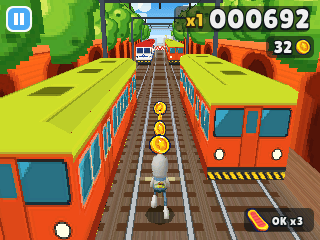
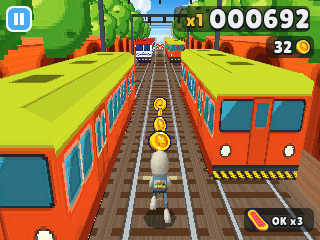
Subway Surfers: Jake clearer from behind, camera closer, media again

diff --git a/games/subway/src/data.c b/games/subway/src/data.c
@@ -1081,49 +1081,49 @@ static const Tri jake_t[1160] = {
   {108,121,109,255}, {108,120,121,255}, {109,122,110,255}, {109,121,122,255}, {110,123,111,255}, {110,122,123,255}, {111,124,112,1}, {111,123,124,1},
   {112,125,113,1}, {112,124,125,1}, {113,126,114,1}, {113,125,126,1}, {114,127,115,1}, {114,126,127,1}, {115,128,116,1}, {115,127,128,1},
   {116,129,117,1}, {116,128,129,1}, {117,130,118,255}, {117,129,130,255}, {118,131,119,255}, {118,130,131,255}, {119,120,108,255}, {119,131,120,255},
-  {120,133,121,255}, {120,132,133,255}, {121,134,122,255}, {121,133,134,255}, {122,135,123,255}, {122,134,135,255}, {123,136,124,1}, {123,135,136,1},
-  {124,137,125,1}, {124,136,137,1}, {125,138,126,1}, {125,137,138,1}, {126,139,127,1}, {126,138,139,1}, {127,140,128,1}, {127,139,140,1},
-  {128,141,129,1}, {128,140,141,1}, {129,142,130,255}, {129,141,142,255}, {130,143,131,255}, {130,142,143,255}, {131,132,120,255}, {131,143,132,255},
-  {132,145,133,255}, {132,144,145,255}, {133,146,134,255}, {133,145,146,255}, {134,147,135,255}, {134,146,147,255}, {135,148,136,1}, {135,147,148,255},
-  {136,149,137,1}, {136,148,149,1}, {137,150,138,1}, {137,149,150,1}, {138,151,139,1}, {138,150,151,1}, {139,152,140,1}, {139,151,152,1},
-  {140,153,141,1}, {140,152,153,1}, {141,154,142,255}, {141,153,154,255}, {142,155,143,255}, {142,154,155,255}, {143,144,132,255}, {143,155,144,255},
+  {120,133,121,255}, {120,132,133,255}, {121,134,122,255}, {121,133,134,255}, {122,135,123,255}, {122,134,135,255}, {123,136,124,1}, {123,135,136,2},
+  {124,137,125,1}, {124,136,137,2}, {125,138,126,1}, {125,137,138,2}, {126,139,127,1}, {126,138,139,2}, {127,140,128,1}, {127,139,140,2},
+  {128,141,129,1}, {128,140,141,2}, {129,142,130,255}, {129,141,142,255}, {130,143,131,255}, {130,142,143,255}, {131,132,120,255}, {131,143,132,255},
+  {132,145,133,255}, {132,144,145,255}, {133,146,134,255}, {133,145,146,255}, {134,147,135,255}, {134,146,147,255}, {135,148,136,2}, {135,147,148,255},
+  {136,149,137,2}, {136,148,149,2}, {137,150,138,2}, {137,149,150,2}, {138,151,139,2}, {138,150,151,2}, {139,152,140,2}, {139,151,152,2},
+  {140,153,141,2}, {140,152,153,2}, {141,154,142,255}, {141,153,154,255}, {142,155,143,255}, {142,154,155,255}, {143,144,132,255}, {143,155,144,255},
   {0,1,156,255}, {1,2,156,255}, {2,3,156,255}, {3,4,156,255}, {4,5,156,1}, {5,6,156,1}, {6,7,156,1}, {7,8,156,1},
   {8,9,156,255}, {9,10,156,255}, {10,11,156,255}, {11,0,156,255}, {144,157,145,255}, {145,157,146,255}, {146,157,147,255}, {147,157,148,255},
-  {148,157,149,1}, {149,157,150,1}, {150,157,151,1}, {151,157,152,1}, {152,157,153,255}, {153,157,154,255}, {154,157,155,255}, {155,157,144,255},
+  {148,157,149,2}, {149,157,150,2}, {150,157,151,2}, {151,157,152,2}, {152,157,153,255}, {153,157,154,255}, {154,157,155,255}, {155,157,144,255},
   {0,11,10,0}, {1,12,11,0}, {2,13,12,0}, {3,14,13,0}, {4,15,14,0}, {5,16,15,0}, {6,17,16,0}, {7,18,17,0},
   {8,19,18,0}, {9,10,19,0}, {10,11,21,0}, {11,12,22,0}, {12,13,23,0}, {13,14,24,0}, {14,15,25,0}, {15,16,26,0},
   {16,17,27,0}, {17,18,28,0}, {18,19,29,0}, {19,10,20,0}, {0,11,1,255}, {0,10,11,255}, {1,12,2,255}, {1,11,12,255},
-  {2,13,3,2}, {2,12,13,255}, {3,14,4,2}, {3,13,14,2}, {4,15,5,2}, {4,14,15,2}, {5,16,6,2}, {5,15,16,2},
-  {6,17,7,2}, {6,16,17,2}, {7,18,8,255}, {7,17,18,255}, {8,19,9,255}, {8,18,19,255}, {9,10,0,255}, {9,19,10,255},
-  {10,21,11,255}, {10,20,21,255}, {11,22,12,255}, {11,21,22,255}, {12,23,13,2}, {12,22,23,255}, {13,24,14,2}, {13,23,24,2},
-  {14,25,15,2}, {14,24,25,2}, {15,26,16,2}, {15,25,26,2}, {16,27,17,2}, {16,26,27,2}, {17,28,18,255}, {17,27,28,2},
+  {2,13,3,3}, {2,12,13,255}, {3,14,4,3}, {3,13,14,3}, {4,15,5,3}, {4,14,15,3}, {5,16,6,3}, {5,15,16,3},
+  {6,17,7,3}, {6,16,17,3}, {7,18,8,255}, {7,17,18,255}, {8,19,9,255}, {8,18,19,255}, {9,10,0,255}, {9,19,10,255},
+  {10,21,11,255}, {10,20,21,255}, {11,22,12,255}, {11,21,22,255}, {12,23,13,3}, {12,22,23,255}, {13,24,14,3}, {13,23,24,3},
+  {14,25,15,3}, {14,24,25,3}, {15,26,16,3}, {15,25,26,3}, {16,27,17,3}, {16,26,27,3}, {17,28,18,255}, {17,27,28,3},
   {18,29,19,255}, {18,28,29,255}, {19,20,10,255}, {19,29,20,255}, {20,31,21,255}, {20,30,31,255}, {21,32,22,255}, {21,31,32,255},
-  {22,33,23,2}, {22,32,33,255}, {23,34,24,2}, {23,33,34,2}, {24,35,25,2}, {24,34,35,2}, {25,36,26,2}, {25,35,36,2},
-  {26,37,27,2}, {26,36,37,2}, {27,38,28,255}, {27,37,38,2}, {28,39,29,255}, {28,38,39,255}, {29,30,20,255}, {29,39,30,255},
-  {30,41,31,255}, {30,40,41,255}, {31,42,32,255}, {31,41,42,255}, {32,43,33,2}, {32,42,43,255}, {33,44,34,2}, {33,43,44,2},
-  {34,45,35,2}, {34,44,45,2}, {35,46,36,2}, {35,45,46,2}, {36,47,37,2}, {36,46,47,2}, {37,48,38,255}, {37,47,48,2},
+  {22,33,23,3}, {22,32,33,255}, {23,34,24,3}, {23,33,34,3}, {24,35,25,3}, {24,34,35,3}, {25,36,26,3}, {25,35,36,3},
+  {26,37,27,3}, {26,36,37,3}, {27,38,28,255}, {27,37,38,3}, {28,39,29,255}, {28,38,39,255}, {29,30,20,255}, {29,39,30,255},
+  {30,41,31,255}, {30,40,41,255}, {31,42,32,255}, {31,41,42,255}, {32,43,33,3}, {32,42,43,255}, {33,44,34,3}, {33,43,44,3},
+  {34,45,35,3}, {34,44,45,3}, {35,46,36,3}, {35,45,46,3}, {36,47,37,3}, {36,46,47,3}, {37,48,38,255}, {37,47,48,3},
   {38,49,39,255}, {38,48,49,255}, {39,40,30,255}, {39,49,40,255}, {40,51,41,255}, {40,50,51,255}, {41,52,42,255}, {41,51,52,255},
-  {42,53,43,2}, {42,52,53,255}, {43,54,44,2}, {43,53,54,2}, {44,55,45,2}, {44,54,55,2}, {45,56,46,2}, {45,55,56,2},
-  {46,57,47,2}, {46,56,57,2}, {47,58,48,255}, {47,57,58,2}, {48,59,49,255}, {48,58,59,255}, {49,50,40,255}, {49,59,50,255},
-  {50,61,51,255}, {50,60,61,255}, {51,62,52,255}, {51,61,62,255}, {52,63,53,2}, {52,62,63,255}, {53,64,54,2}, {53,63,64,2},
-  {54,65,55,2}, {54,64,65,2}, {55,66,56,2}, {55,65,66,2}, {56,67,57,2}, {56,66,67,2}, {57,68,58,255}, {57,67,68,2},
+  {42,53,43,3}, {42,52,53,255}, {43,54,44,3}, {43,53,54,3}, {44,55,45,3}, {44,54,55,3}, {45,56,46,3}, {45,55,56,3},
+  {46,57,47,3}, {46,56,57,3}, {47,58,48,255}, {47,57,58,3}, {48,59,49,255}, {48,58,59,255}, {49,50,40,255}, {49,59,50,255},
+  {50,61,51,255}, {50,60,61,255}, {51,62,52,255}, {51,61,62,255}, {52,63,53,3}, {52,62,63,255}, {53,64,54,3}, {53,63,64,3},
+  {54,65,55,3}, {54,64,65,3}, {55,66,56,3}, {55,65,66,3}, {56,67,57,3}, {56,66,67,3}, {57,68,58,255}, {57,67,68,3},
   {58,69,59,255}, {58,68,69,255}, {59,60,50,255}, {59,69,60,255}, {60,71,61,255}, {60,70,71,255}, {61,72,62,255}, {61,71,72,255},
-  {62,73,63,255}, {62,72,73,255}, {63,74,64,2}, {63,73,74,2}, {64,75,65,2}, {64,74,75,2}, {65,76,66,2}, {65,75,76,2},
-  {66,77,67,2}, {66,76,77,2}, {67,78,68,255}, {67,77,78,2}, {68,79,69,255}, {68,78,79,255}, {69,70,60,255}, {69,79,70,255},
-  {0,1,80,255}, {1,2,80,255}, {2,3,80,255}, {3,4,80,2}, {4,5,80,2}, {5,6,80,2}, {6,7,80,2}, {7,8,80,255},
-  {8,9,80,255}, {9,0,80,255}, {70,81,71,255}, {71,81,72,255}, {72,81,73,255}, {73,81,74,2}, {74,81,75,2}, {75,81,76,2},
-  {76,81,77,2}, {77,81,78,255}, {78,81,79,255}, {79,81,70,255}, {0,1,6,255}, {0,6,5,255}, {1,2,7,255}, {1,7,6,255},
+  {62,73,63,255}, {62,72,73,255}, {63,74,64,3}, {63,73,74,3}, {64,75,65,3}, {64,74,75,3}, {65,76,66,3}, {65,75,76,3},
+  {66,77,67,3}, {66,76,77,3}, {67,78,68,255}, {67,77,78,3}, {68,79,69,255}, {68,78,79,255}, {69,70,60,255}, {69,79,70,255},
+  {0,1,80,255}, {1,2,80,255}, {2,3,80,255}, {3,4,80,3}, {4,5,80,3}, {5,6,80,3}, {6,7,80,3}, {7,8,80,255},
+  {8,9,80,255}, {9,0,80,255}, {70,81,71,255}, {71,81,72,255}, {72,81,73,255}, {73,81,74,3}, {74,81,75,3}, {75,81,76,3},
+  {76,81,77,3}, {77,81,78,255}, {78,81,79,255}, {79,81,70,255}, {0,1,6,255}, {0,6,5,255}, {1,2,7,255}, {1,7,6,255},
   {2,3,8,255}, {2,8,7,255}, {3,4,9,255}, {3,9,8,255}, {5,6,11,255}, {5,11,10,255}, {6,7,12,255}, {6,12,11,255},
   {7,8,13,255}, {7,13,12,255}, {8,9,14,255}, {8,14,13,255}, {0,11,1,255}, {0,10,11,255}, {1,12,2,255}, {1,11,12,255},
-  {2,13,3,255}, {2,12,13,255}, {3,14,4,3}, {3,13,14,3}, {4,15,5,3}, {4,14,15,3}, {5,16,6,3}, {5,15,16,3},
-  {6,17,7,3}, {6,16,17,3}, {7,18,8,255}, {7,17,18,255}, {8,19,9,255}, {8,18,19,255}, {9,10,0,255}, {9,19,10,255},
-  {10,21,11,255}, {10,20,21,255}, {11,22,12,255}, {11,21,22,255}, {12,23,13,255}, {12,22,23,255}, {13,24,14,3}, {13,23,24,3},
-  {14,25,15,3}, {14,24,25,3}, {15,26,16,3}, {15,25,26,3}, {16,27,17,3}, {16,26,27,3}, {17,28,18,255}, {17,27,28,255},
+  {2,13,3,255}, {2,12,13,255}, {3,14,4,4}, {3,13,14,4}, {4,15,5,4}, {4,14,15,4}, {5,16,6,4}, {5,15,16,4},
+  {6,17,7,4}, {6,16,17,4}, {7,18,8,255}, {7,17,18,255}, {8,19,9,255}, {8,18,19,255}, {9,10,0,255}, {9,19,10,255},
+  {10,21,11,255}, {10,20,21,255}, {11,22,12,255}, {11,21,22,255}, {12,23,13,255}, {12,22,23,255}, {13,24,14,4}, {13,23,24,4},
+  {14,25,15,4}, {14,24,25,4}, {15,26,16,4}, {15,25,26,4}, {16,27,17,4}, {16,26,27,4}, {17,28,18,255}, {17,27,28,255},
   {18,29,19,255}, {18,28,29,255}, {19,20,10,255}, {19,29,20,255}, {20,31,21,255}, {20,30,31,255}, {21,32,22,255}, {21,31,32,255},
-  {22,33,23,255}, {22,32,33,255}, {23,34,24,3}, {23,33,34,3}, {24,35,25,3}, {24,34,35,3}, {25,36,26,3}, {25,35,36,3},
-  {26,37,27,3}, {26,36,37,3}, {27,38,28,255}, {27,37,38,255}, {28,39,29,255}, {28,38,39,255}, {29,30,20,255}, {29,39,30,255},
-  {0,1,40,255}, {1,2,40,255}, {2,3,40,255}, {3,4,40,3}, {4,5,40,3}, {5,6,40,3}, {6,7,40,3}, {7,8,40,255},
-  {8,9,40,255}, {9,0,40,255}, {30,41,31,255}, {31,41,32,255}, {32,41,33,255}, {33,41,34,3}, {34,41,35,3}, {35,41,36,3},
+  {22,33,23,255}, {22,32,33,255}, {23,34,24,4}, {23,33,34,4}, {24,35,25,4}, {24,34,35,4}, {25,36,26,4}, {25,35,36,4},
+  {26,37,27,4}, {26,36,37,4}, {27,38,28,255}, {27,37,38,255}, {28,39,29,255}, {28,38,39,255}, {29,30,20,255}, {29,39,30,255},
+  {0,1,40,255}, {1,2,40,255}, {2,3,40,255}, {3,4,40,4}, {4,5,40,4}, {5,6,40,4}, {6,7,40,4}, {7,8,40,255},
+  {8,9,40,255}, {9,0,40,255}, {30,41,31,255}, {31,41,32,255}, {32,41,33,255}, {33,41,34,4}, {34,41,35,4}, {35,41,36,4},
   {36,41,37,255}, {37,41,38,255}, {38,41,39,255}, {39,41,30,255}, {0,9,1,255}, {0,8,9,255}, {1,10,2,255}, {1,9,10,255},
   {2,11,3,255}, {2,10,11,255}, {3,12,4,255}, {3,11,12,255}, {4,13,5,255}, {4,12,13,255}, {5,14,6,255}, {5,13,14,255},
   {6,15,7,255}, {6,14,15,255}, {7,8,0,255}, {7,15,8,255}, {8,17,9,255}, {8,16,17,255}, {9,18,10,255}, {9,17,18,255},
@@ -1134,17 +1134,17 @@ static const Tri jake_t[1160] = {
   {26,35,27,255}, {26,34,35,255}, {27,36,28,255}, {27,35,36,255}, {28,37,29,255}, {28,36,37,255}, {29,38,30,255}, {29,37,38,255},
   {30,39,31,255}, {30,38,39,255}, {31,32,24,255}, {31,39,32,255}, {32,41,33,255}, {32,40,41,255}, {33,42,34,255}, {33,41,42,255},
   {34,43,35,255}, {34,42,43,255}, {35,44,36,255}, {35,43,44,255}, {36,45,37,255}, {36,44,45,255}, {37,46,38,255}, {37,45,46,255},
-  {38,47,39,255}, {38,46,47,255}, {39,40,32,255}, {39,47,40,255}, {40,49,41,4}, {40,48,49,255}, {41,50,42,5}, {41,49,50,6},
-  {42,51,43,7}, {42,50,51,8}, {43,52,44,7}, {43,51,52,7}, {44,53,45,7}, {44,52,53,7}, {45,54,46,9}, {45,53,54,7},
-  {46,55,47,10}, {46,54,55,11}, {47,48,40,255}, {47,55,48,255}, {48,57,49,12}, {48,56,57,255}, {49,58,50,13}, {49,57,58,14},
-  {50,59,51,7}, {50,58,59,15}, {51,60,52,7}, {51,59,60,7}, {52,61,53,7}, {52,60,61,7}, {53,62,54,16}, {53,61,62,7},
-  {54,63,55,17}, {54,62,63,18}, {55,56,48,255}, {55,63,56,19}, {56,65,57,20}, {56,64,65,255}, {57,66,58,21}, {57,65,66,22},
-  {58,67,59,7}, {58,66,67,23}, {59,68,60,7}, {59,67,68,7}, {60,69,61,7}, {60,68,69,7}, {61,70,62,24}, {61,69,70,7},
-  {62,71,63,25}, {62,70,71,26}, {63,64,56,255}, {63,71,64,27}, {64,73,65,28}, {64,72,73,255}, {65,74,66,29}, {65,73,74,30},
-  {66,75,67,31}, {66,74,75,32}, {67,76,68,7}, {67,75,76,7}, {68,77,69,7}, {68,76,77,7}, {69,78,70,33}, {69,77,78,7},
-  {70,79,71,33}, {70,78,79,34}, {71,72,64,255}, {71,79,72,35}, {0,1,80,255}, {1,2,80,255}, {2,3,80,255}, {3,4,80,255},
-  {4,5,80,255}, {5,6,80,255}, {6,7,80,255}, {7,0,80,255}, {72,81,73,255}, {73,81,74,36}, {74,81,75,36}, {75,81,76,7},
-  {76,81,77,7}, {77,81,78,37}, {78,81,79,37}, {79,81,72,255}, {0,9,1,255}, {0,8,9,255}, {1,10,2,255}, {1,9,10,255},
+  {38,47,39,255}, {38,46,47,255}, {39,40,32,255}, {39,47,40,255}, {40,49,41,5}, {40,48,49,255}, {41,50,42,6}, {41,49,50,7},
+  {42,51,43,8}, {42,50,51,9}, {43,52,44,8}, {43,51,52,8}, {44,53,45,8}, {44,52,53,8}, {45,54,46,10}, {45,53,54,8},
+  {46,55,47,11}, {46,54,55,12}, {47,48,40,255}, {47,55,48,255}, {48,57,49,13}, {48,56,57,255}, {49,58,50,14}, {49,57,58,15},
+  {50,59,51,8}, {50,58,59,16}, {51,60,52,8}, {51,59,60,8}, {52,61,53,8}, {52,60,61,8}, {53,62,54,17}, {53,61,62,8},
+  {54,63,55,18}, {54,62,63,19}, {55,56,48,255}, {55,63,56,20}, {56,65,57,21}, {56,64,65,255}, {57,66,58,22}, {57,65,66,23},
+  {58,67,59,8}, {58,66,67,24}, {59,68,60,8}, {59,67,68,8}, {60,69,61,8}, {60,68,69,8}, {61,70,62,25}, {61,69,70,8},
+  {62,71,63,26}, {62,70,71,27}, {63,64,56,255}, {63,71,64,28}, {64,73,65,29}, {64,72,73,255}, {65,74,66,30}, {65,73,74,31},
+  {66,75,67,32}, {66,74,75,33}, {67,76,68,8}, {67,75,76,8}, {68,77,69,8}, {68,76,77,8}, {69,78,70,34}, {69,77,78,8},
+  {70,79,71,34}, {70,78,79,35}, {71,72,64,255}, {71,79,72,36}, {0,1,80,255}, {1,2,80,255}, {2,3,80,255}, {3,4,80,255},
+  {4,5,80,255}, {5,6,80,255}, {6,7,80,255}, {7,0,80,255}, {72,81,73,255}, {73,81,74,37}, {74,81,75,37}, {75,81,76,8},
+  {76,81,77,8}, {77,81,78,38}, {78,81,79,38}, {79,81,72,255}, {0,9,1,255}, {0,8,9,255}, {1,10,2,255}, {1,9,10,255},
   {2,11,3,255}, {2,10,11,255}, {3,12,4,255}, {3,11,12,255}, {4,13,5,255}, {4,12,13,255}, {5,14,6,255}, {5,13,14,255},
   {6,15,7,255}, {6,14,15,255}, {7,8,0,255}, {7,15,8,255}, {8,17,9,255}, {8,16,17,255}, {9,18,10,255}, {9,17,18,255},
   {10,19,11,255}, {10,18,19,255}, {11,20,12,255}, {11,19,20,255}, {12,21,13,255}, {12,20,21,255}, {13,22,14,255}, {13,21,22,255},
@@ -1154,17 +1154,17 @@ static const Tri jake_t[1160] = {
   {26,35,27,255}, {26,34,35,255}, {27,36,28,255}, {27,35,36,255}, {28,37,29,255}, {28,36,37,255}, {29,38,30,255}, {29,37,38,255},
   {30,39,31,255}, {30,38,39,255}, {31,32,24,255}, {31,39,32,255}, {32,41,33,255}, {32,40,41,255}, {33,42,34,255}, {33,41,42,255},
   {34,43,35,255}, {34,42,43,255}, {35,44,36,255}, {35,43,44,255}, {36,45,37,255}, {36,44,45,255}, {37,46,38,255}, {37,45,46,255},
-  {38,47,39,255}, {38,46,47,255}, {39,40,32,255}, {39,47,40,255}, {40,49,41,38}, {40,48,49,255}, {41,50,42,39}, {41,49,50,40},
-  {42,51,43,7}, {42,50,51,40}, {43,52,44,7}, {43,51,52,7}, {44,53,45,7}, {44,52,53,7}, {45,54,46,41}, {45,53,54,7},
-  {46,55,47,42}, {46,54,55,43}, {47,48,40,255}, {47,55,48,255}, {48,57,49,44}, {48,56,57,255}, {49,58,50,45}, {49,57,58,46},
-  {50,59,51,7}, {50,58,59,46}, {51,60,52,7}, {51,59,60,7}, {52,61,53,7}, {52,60,61,7}, {53,62,54,47}, {53,61,62,7},
-  {54,63,55,48}, {54,62,63,49}, {55,56,48,255}, {55,63,56,50}, {56,65,57,51}, {56,64,65,255}, {57,66,58,52}, {57,65,66,53},
-  {58,67,59,7}, {58,66,67,53}, {59,68,60,7}, {59,67,68,7}, {60,69,61,7}, {60,68,69,7}, {61,70,62,54}, {61,69,70,7},
-  {62,71,63,55}, {62,70,71,56}, {63,64,56,255}, {63,71,64,57}, {64,73,65,58}, {64,72,73,255}, {65,74,66,59}, {65,73,74,60},
-  {66,75,67,61}, {66,74,75,62}, {67,76,68,7}, {67,75,76,7}, {68,77,69,7}, {68,76,77,7}, {69,78,70,63}, {69,77,78,7},
-  {70,79,71,64}, {70,78,79,65}, {71,72,64,255}, {71,79,72,66}, {0,1,80,255}, {1,2,80,255}, {2,3,80,255}, {3,4,80,255},
-  {4,5,80,255}, {5,6,80,255}, {6,7,80,255}, {7,0,80,255}, {72,81,73,255}, {73,81,74,67}, {74,81,75,67}, {75,81,76,7},
-  {76,81,77,7}, {77,81,78,68}, {78,81,79,68}, {79,81,72,255}, {0,1,8,255}, {0,8,7,255}, {1,2,9,255}, {1,9,8,255},
+  {38,47,39,255}, {38,46,47,255}, {39,40,32,255}, {39,47,40,255}, {40,49,41,39}, {40,48,49,255}, {41,50,42,40}, {41,49,50,41},
+  {42,51,43,8}, {42,50,51,41}, {43,52,44,8}, {43,51,52,8}, {44,53,45,8}, {44,52,53,8}, {45,54,46,42}, {45,53,54,8},
+  {46,55,47,43}, {46,54,55,44}, {47,48,40,255}, {47,55,48,255}, {48,57,49,45}, {48,56,57,255}, {49,58,50,46}, {49,57,58,47},
+  {50,59,51,8}, {50,58,59,47}, {51,60,52,8}, {51,59,60,8}, {52,61,53,8}, {52,60,61,8}, {53,62,54,48}, {53,61,62,8},
+  {54,63,55,49}, {54,62,63,50}, {55,56,48,255}, {55,63,56,51}, {56,65,57,52}, {56,64,65,255}, {57,66,58,53}, {57,65,66,54},
+  {58,67,59,8}, {58,66,67,54}, {59,68,60,8}, {59,67,68,8}, {60,69,61,8}, {60,68,69,8}, {61,70,62,55}, {61,69,70,8},
+  {62,71,63,56}, {62,70,71,57}, {63,64,56,255}, {63,71,64,58}, {64,73,65,59}, {64,72,73,255}, {65,74,66,60}, {65,73,74,61},
+  {66,75,67,62}, {66,74,75,63}, {67,76,68,8}, {67,75,76,8}, {68,77,69,8}, {68,76,77,8}, {69,78,70,64}, {69,77,78,8},
+  {70,79,71,65}, {70,78,79,66}, {71,72,64,255}, {71,79,72,67}, {0,1,80,255}, {1,2,80,255}, {2,3,80,255}, {3,4,80,255},
+  {4,5,80,255}, {5,6,80,255}, {6,7,80,255}, {7,0,80,255}, {72,81,73,255}, {73,81,74,68}, {74,81,75,68}, {75,81,76,8},
+  {76,81,77,8}, {77,81,78,69}, {78,81,79,69}, {79,81,72,255}, {0,1,8,255}, {0,8,7,255}, {1,2,9,255}, {1,9,8,255},
   {2,3,10,255}, {2,10,9,255}, {3,4,11,255}, {3,11,10,255}, {4,5,12,255}, {4,12,11,255}, {5,6,13,255}, {5,13,12,255},
   {6,0,7,255}, {6,7,13,255}, {7,8,15,255}, {7,15,14,255}, {8,9,16,255}, {8,16,15,255}, {9,10,17,255}, {9,17,16,255},
   {10,11,18,255}, {10,18,17,255}, {11,12,19,255}, {11,19,18,255}, {12,13,20,255}, {12,20,19,255}, {13,7,14,255}, {13,14,20,255},
@@ -1198,13 +1198,13 @@ static const Tri jake_t[1160] = {
   {6,0,63,255}, {56,64,57,255}, {57,64,58,255}, {58,64,59,255}, {59,64,60,255}, {60,64,61,255}, {61,64,62,255}, {62,64,56,255},
 };
 static const MPart jake_p[9] = {{0,158,0,312,1}, {158,30,312,20,-1}, {188,82,332,160,0}, {270,15,492,16,1}, {285,42,508,80,0}, {327,82,588,160,0}, {409,82,748,160,0}, {491,65,908,126,0}, {556,65,1034,126,0},};
-static const uint16_t jake_pal[69] = {
-  10240,57050,29944,8713,63223,63223,63028,61275,63060,63223,63223,59649,
-  14496,23142,27970,25826,10240,10240,40806,40806,34436,23778,12993,12928,
-  38630,38630,19426,19426,61242,59065,59063,61145,59030,63290,56982,56950,
-  52725,50676,63223,63223,59681,63222,63191,60980,10272,12320,40807,25191,
-  23079,25890,40806,38630,38629,19394,25891,30213,12993,19361,59161,61209,
-  59031,63290,59063,61177,61209,59063,59030,52658,52659,
+static const uint16_t jake_pal[70] = {
+  10240,61209,52757,29944,8713,63223,63223,63028,61275,63060,63223,63223,
+  59649,14496,23142,27970,25826,10240,10240,40806,40806,34436,23778,12993,
+  12928,38630,38630,19426,19426,61242,59065,59063,61145,59030,63290,56982,
+  56950,52725,50676,63223,63223,59681,63222,63191,60980,10272,12320,40807,
+  25191,23079,25890,40806,38630,38629,19394,25891,30213,12993,19361,59161,
+  61209,59031,63290,59063,61177,61209,59063,59030,52658,52659,
 };
 static const int16_t jake_j[11][3] = {{0,761,0}, {0,794,0}, {0,1188,0}, {-157,1132,0}, {-415,1132,0}, {157,1132,0}, {415,1132,0}, {-132,741,0}, {-132,450,0}, {125,741,0}, {125,450,0}};
 static const int8_t jake_parent[11] = {-1,0,1,1,3,1,5,0,7,0,9};
@@ -1316,53 +1316,53 @@ static const Tri jake_lo_t[624] = {
   {52,62,53,255}, {52,61,62,255}, {53,54,45,255}, {53,62,54,255}, {54,64,55,255}, {54,63,64,255}, {55,65,56,255}, {55,64,65,255},
   {56,66,57,1}, {56,65,66,255}, {57,67,58,1}, {57,66,67,1}, {58,68,59,1}, {58,67,68,1}, {59,69,60,1}, {59,68,69,1},
   {60,70,61,255}, {60,69,70,1}, {61,71,62,255}, {61,70,71,255}, {62,63,54,255}, {62,71,63,255}, {63,73,64,255}, {63,72,73,255},
-  {64,74,65,255}, {64,73,74,255}, {65,75,66,1}, {65,74,75,255}, {66,76,67,1}, {66,75,76,1}, {67,77,68,1}, {67,76,77,1},
-  {68,78,69,1}, {68,77,78,1}, {69,79,70,255}, {69,78,79,1}, {70,80,71,255}, {70,79,80,255}, {71,72,63,255}, {71,80,72,255},
+  {64,74,65,255}, {64,73,74,255}, {65,75,66,2}, {65,74,75,255}, {66,76,67,2}, {66,75,76,2}, {67,77,68,2}, {67,76,77,2},
+  {68,78,69,2}, {68,77,78,2}, {69,79,70,255}, {69,78,79,2}, {70,80,71,255}, {70,79,80,255}, {71,72,63,255}, {71,80,72,255},
   {0,1,81,255}, {1,2,81,255}, {2,3,81,255}, {3,4,81,1}, {4,5,81,1}, {5,6,81,1}, {6,7,81,255}, {7,8,81,255},
-  {8,0,81,255}, {72,82,73,255}, {73,82,74,255}, {74,82,75,255}, {75,82,76,1}, {76,82,77,1}, {77,82,78,1}, {78,82,79,255},
+  {8,0,81,255}, {72,82,73,255}, {73,82,74,255}, {74,82,75,255}, {75,82,76,2}, {76,82,77,2}, {77,82,78,2}, {78,82,79,255},
   {79,82,80,255}, {80,82,72,255}, {0,8,7,0}, {1,9,8,0}, {2,10,9,0}, {3,11,10,0}, {4,12,11,0}, {5,13,12,0},
   {6,7,13,0}, {7,8,15,0}, {8,9,16,0}, {9,10,17,0}, {10,11,18,0}, {11,12,19,0}, {12,13,20,0}, {13,7,14,0},
-  {0,9,1,255}, {0,8,9,255}, {1,10,2,255}, {1,9,10,255}, {2,11,3,2}, {2,10,11,2}, {3,12,4,2}, {3,11,12,2},
-  {4,13,5,2}, {4,12,13,2}, {5,14,6,2}, {5,13,14,2}, {6,15,7,255}, {6,14,15,255}, {7,8,0,255}, {7,15,8,255},
-  {8,17,9,255}, {8,16,17,255}, {9,18,10,255}, {9,17,18,255}, {10,19,11,2}, {10,18,19,2}, {11,20,12,2}, {11,19,20,2},
-  {12,21,13,2}, {12,20,21,2}, {13,22,14,2}, {13,21,22,2}, {14,23,15,255}, {14,22,23,255}, {15,16,8,255}, {15,23,16,255},
-  {16,25,17,255}, {16,24,25,255}, {17,26,18,255}, {17,25,26,255}, {18,27,19,2}, {18,26,27,2}, {19,28,20,2}, {19,27,28,2},
-  {20,29,21,2}, {20,28,29,2}, {21,30,22,2}, {21,29,30,2}, {22,31,23,255}, {22,30,31,255}, {23,24,16,255}, {23,31,24,255},
-  {24,33,25,255}, {24,32,33,255}, {25,34,26,255}, {25,33,34,255}, {26,35,27,2}, {26,34,35,2}, {27,36,28,2}, {27,35,36,2},
-  {28,37,29,2}, {28,36,37,2}, {29,38,30,2}, {29,37,38,2}, {30,39,31,255}, {30,38,39,255}, {31,32,24,255}, {31,39,32,255},
-  {32,41,33,255}, {32,40,41,255}, {33,42,34,255}, {33,41,42,255}, {34,43,35,2}, {34,42,43,255}, {35,44,36,2}, {35,43,44,2},
-  {36,45,37,2}, {36,44,45,2}, {37,46,38,2}, {37,45,46,2}, {38,47,39,255}, {38,46,47,255}, {39,40,32,255}, {39,47,40,255},
-  {0,1,48,255}, {1,2,48,255}, {2,3,48,2}, {3,4,48,2}, {4,5,48,2}, {5,6,48,2}, {6,7,48,255}, {7,0,48,255},
-  {40,49,41,255}, {41,49,42,255}, {42,49,43,255}, {43,49,44,2}, {44,49,45,2}, {45,49,46,2}, {46,49,47,255}, {47,49,40,255},
+  {0,9,1,255}, {0,8,9,255}, {1,10,2,255}, {1,9,10,255}, {2,11,3,3}, {2,10,11,3}, {3,12,4,3}, {3,11,12,3},
+  {4,13,5,3}, {4,12,13,3}, {5,14,6,3}, {5,13,14,3}, {6,15,7,255}, {6,14,15,255}, {7,8,0,255}, {7,15,8,255},
+  {8,17,9,255}, {8,16,17,255}, {9,18,10,255}, {9,17,18,255}, {10,19,11,3}, {10,18,19,3}, {11,20,12,3}, {11,19,20,3},
+  {12,21,13,3}, {12,20,21,3}, {13,22,14,3}, {13,21,22,3}, {14,23,15,255}, {14,22,23,255}, {15,16,8,255}, {15,23,16,255},
+  {16,25,17,255}, {16,24,25,255}, {17,26,18,255}, {17,25,26,255}, {18,27,19,3}, {18,26,27,3}, {19,28,20,3}, {19,27,28,3},
+  {20,29,21,3}, {20,28,29,3}, {21,30,22,3}, {21,29,30,3}, {22,31,23,255}, {22,30,31,255}, {23,24,16,255}, {23,31,24,255},
+  {24,33,25,255}, {24,32,33,255}, {25,34,26,255}, {25,33,34,255}, {26,35,27,3}, {26,34,35,3}, {27,36,28,3}, {27,35,36,3},
+  {28,37,29,3}, {28,36,37,3}, {29,38,30,3}, {29,37,38,3}, {30,39,31,255}, {30,38,39,255}, {31,32,24,255}, {31,39,32,255},
+  {32,41,33,255}, {32,40,41,255}, {33,42,34,255}, {33,41,42,255}, {34,43,35,3}, {34,42,43,255}, {35,44,36,3}, {35,43,44,3},
+  {36,45,37,3}, {36,44,45,3}, {37,46,38,3}, {37,45,46,3}, {38,47,39,255}, {38,46,47,255}, {39,40,32,255}, {39,47,40,255},
+  {0,1,48,255}, {1,2,48,255}, {2,3,48,3}, {3,4,48,3}, {4,5,48,3}, {5,6,48,3}, {6,7,48,255}, {7,0,48,255},
+  {40,49,41,255}, {41,49,42,255}, {42,49,43,255}, {43,49,44,3}, {44,49,45,3}, {45,49,46,3}, {46,49,47,255}, {47,49,40,255},
   {0,1,6,255}, {0,6,5,255}, {1,2,7,255}, {1,7,6,255}, {2,3,8,255}, {2,8,7,255}, {3,4,9,255}, {3,9,8,255},
   {5,6,11,255}, {5,11,10,255}, {6,7,12,255}, {6,12,11,255}, {7,8,13,255}, {7,13,12,255}, {8,9,14,255}, {8,14,13,255},
-  {0,9,1,255}, {0,8,9,255}, {1,10,2,255}, {1,9,10,255}, {2,11,3,3}, {2,10,11,255}, {3,12,4,3}, {3,11,12,3},
-  {4,13,5,3}, {4,12,13,3}, {5,14,6,3}, {5,13,14,3}, {6,15,7,255}, {6,14,15,255}, {7,8,0,255}, {7,15,8,255},
-  {8,17,9,255}, {8,16,17,255}, {9,18,10,255}, {9,17,18,255}, {10,19,11,3}, {10,18,19,255}, {11,20,12,3}, {11,19,20,3},
-  {12,21,13,3}, {12,20,21,3}, {13,22,14,3}, {13,21,22,3}, {14,23,15,255}, {14,22,23,255}, {15,16,8,255}, {15,23,16,255},
-  {0,1,24,255}, {1,2,24,255}, {2,3,24,3}, {3,4,24,3}, {4,5,24,3}, {5,6,24,255}, {6,7,24,255}, {7,0,24,255},
-  {16,25,17,255}, {17,25,18,255}, {18,25,19,255}, {19,25,20,3}, {20,25,21,3}, {21,25,22,3}, {22,25,23,255}, {23,25,16,255},
+  {0,9,1,255}, {0,8,9,255}, {1,10,2,255}, {1,9,10,255}, {2,11,3,4}, {2,10,11,255}, {3,12,4,4}, {3,11,12,4},
+  {4,13,5,4}, {4,12,13,4}, {5,14,6,4}, {5,13,14,4}, {6,15,7,255}, {6,14,15,255}, {7,8,0,255}, {7,15,8,255},
+  {8,17,9,255}, {8,16,17,255}, {9,18,10,255}, {9,17,18,255}, {10,19,11,4}, {10,18,19,255}, {11,20,12,4}, {11,19,20,4},
+  {12,21,13,4}, {12,20,21,4}, {13,22,14,4}, {13,21,22,4}, {14,23,15,255}, {14,22,23,255}, {15,16,8,255}, {15,23,16,255},
+  {0,1,24,255}, {1,2,24,255}, {2,3,24,4}, {3,4,24,4}, {4,5,24,4}, {5,6,24,255}, {6,7,24,255}, {7,0,24,255},
+  {16,25,17,255}, {17,25,18,255}, {18,25,19,255}, {19,25,20,4}, {20,25,21,4}, {21,25,22,4}, {22,25,23,255}, {23,25,16,255},
   {0,7,1,255}, {0,6,7,255}, {1,8,2,255}, {1,7,8,255}, {2,9,3,255}, {2,8,9,255}, {3,10,4,255}, {3,9,10,255},
   {4,11,5,255}, {4,10,11,255}, {5,6,0,255}, {5,11,6,255}, {6,13,7,255}, {6,12,13,255}, {7,14,8,255}, {7,13,14,255},
   {8,15,9,255}, {8,14,15,255}, {9,16,10,255}, {9,15,16,255}, {10,17,11,255}, {10,16,17,255}, {11,12,6,255}, {11,17,12,255},
   {12,19,13,255}, {12,18,19,255}, {13,20,14,255}, {13,19,20,255}, {14,21,15,255}, {14,20,21,255}, {15,22,16,255}, {15,21,22,255},
-  {16,23,17,255}, {16,22,23,255}, {17,18,12,255}, {17,23,18,255}, {18,25,19,4}, {18,24,25,255}, {19,26,20,5}, {19,25,26,6},
-  {20,27,21,7}, {20,26,27,7}, {21,28,22,7}, {21,27,28,7}, {22,29,23,8}, {22,28,29,9}, {23,24,18,255}, {23,29,24,10},
-  {24,31,25,11}, {24,30,31,255}, {25,32,26,12}, {25,31,32,13}, {26,33,27,7}, {26,32,33,7}, {27,34,28,7}, {27,33,34,7},
-  {28,35,29,14}, {28,34,35,15}, {29,30,24,255}, {29,35,30,16}, {30,37,31,17}, {30,36,37,255}, {31,38,32,18}, {31,37,38,19},
-  {32,39,33,7}, {32,38,39,7}, {33,40,34,7}, {33,39,40,7}, {34,41,35,20}, {34,40,41,21}, {35,36,30,255}, {35,41,36,22},
-  {0,1,42,255}, {1,2,42,255}, {2,3,42,255}, {3,4,42,255}, {4,5,42,255}, {5,0,42,255}, {36,43,37,255}, {37,43,38,23},
-  {38,43,39,255}, {39,43,40,7}, {40,43,41,24}, {41,43,36,255}, {0,7,1,255}, {0,6,7,255}, {1,8,2,255}, {1,7,8,255},
+  {16,23,17,255}, {16,22,23,255}, {17,18,12,255}, {17,23,18,255}, {18,25,19,5}, {18,24,25,255}, {19,26,20,6}, {19,25,26,7},
+  {20,27,21,8}, {20,26,27,8}, {21,28,22,8}, {21,27,28,8}, {22,29,23,9}, {22,28,29,10}, {23,24,18,255}, {23,29,24,11},
+  {24,31,25,12}, {24,30,31,255}, {25,32,26,13}, {25,31,32,14}, {26,33,27,8}, {26,32,33,8}, {27,34,28,8}, {27,33,34,8},
+  {28,35,29,15}, {28,34,35,16}, {29,30,24,255}, {29,35,30,17}, {30,37,31,18}, {30,36,37,255}, {31,38,32,19}, {31,37,38,20},
+  {32,39,33,8}, {32,38,39,8}, {33,40,34,8}, {33,39,40,8}, {34,41,35,21}, {34,40,41,22}, {35,36,30,255}, {35,41,36,23},
+  {0,1,42,255}, {1,2,42,255}, {2,3,42,255}, {3,4,42,255}, {4,5,42,255}, {5,0,42,255}, {36,43,37,255}, {37,43,38,24},
+  {38,43,39,255}, {39,43,40,8}, {40,43,41,25}, {41,43,36,255}, {0,7,1,255}, {0,6,7,255}, {1,8,2,255}, {1,7,8,255},
   {2,9,3,255}, {2,8,9,255}, {3,10,4,255}, {3,9,10,255}, {4,11,5,255}, {4,10,11,255}, {5,6,0,255}, {5,11,6,255},
   {6,13,7,255}, {6,12,13,255}, {7,14,8,255}, {7,13,14,255}, {8,15,9,255}, {8,14,15,255}, {9,16,10,255}, {9,15,16,255},
   {10,17,11,255}, {10,16,17,255}, {11,12,6,255}, {11,17,12,255}, {12,19,13,255}, {12,18,19,255}, {13,20,14,255}, {13,19,20,255},
   {14,21,15,255}, {14,20,21,255}, {15,22,16,255}, {15,21,22,255}, {16,23,17,255}, {16,22,23,255}, {17,18,12,255}, {17,23,18,255},
-  {18,25,19,25}, {18,24,25,255}, {19,26,20,25}, {19,25,26,26}, {20,27,21,7}, {20,26,27,7}, {21,28,22,7}, {21,27,28,7},
-  {22,29,23,27}, {22,28,29,28}, {23,24,18,255}, {23,29,24,29}, {24,31,25,30}, {24,30,31,255}, {25,32,26,31}, {25,31,32,32},
-  {26,33,27,7}, {26,32,33,7}, {27,34,28,7}, {27,33,34,7}, {28,35,29,33}, {28,34,35,34}, {29,30,24,255}, {29,35,30,35},
-  {30,37,31,36}, {30,36,37,255}, {31,38,32,37}, {31,37,38,38}, {32,39,33,7}, {32,38,39,7}, {33,40,34,7}, {33,39,40,7},
-  {34,41,35,39}, {34,40,41,40}, {35,36,30,255}, {35,41,36,41}, {0,1,42,255}, {1,2,42,255}, {2,3,42,255}, {3,4,42,255},
-  {4,5,42,255}, {5,0,42,255}, {36,43,37,255}, {37,43,38,42}, {38,43,39,255}, {39,43,40,7}, {40,43,41,43}, {41,43,36,255},
+  {18,25,19,26}, {18,24,25,255}, {19,26,20,26}, {19,25,26,27}, {20,27,21,8}, {20,26,27,8}, {21,28,22,8}, {21,27,28,8},
+  {22,29,23,28}, {22,28,29,29}, {23,24,18,255}, {23,29,24,30}, {24,31,25,31}, {24,30,31,255}, {25,32,26,32}, {25,31,32,33},
+  {26,33,27,8}, {26,32,33,8}, {27,34,28,8}, {27,33,34,8}, {28,35,29,34}, {28,34,35,35}, {29,30,24,255}, {29,35,30,36},
+  {30,37,31,37}, {30,36,37,255}, {31,38,32,38}, {31,37,38,39}, {32,39,33,8}, {32,38,39,8}, {33,40,34,8}, {33,39,40,8},
+  {34,41,35,40}, {34,40,41,41}, {35,36,30,255}, {35,41,36,42}, {0,1,42,255}, {1,2,42,255}, {2,3,42,255}, {3,4,42,255},
+  {4,5,42,255}, {5,0,42,255}, {36,43,37,255}, {37,43,38,43}, {38,43,39,255}, {39,43,40,8}, {40,43,41,44}, {41,43,36,255},
   {0,1,6,255}, {0,6,5,255}, {1,2,7,255}, {1,7,6,255}, {2,3,8,255}, {2,8,7,255}, {3,4,9,255}, {3,9,8,255},
   {4,0,5,255}, {4,5,9,255}, {5,6,11,255}, {5,11,10,255}, {6,7,12,255}, {6,12,11,255}, {7,8,13,255}, {7,13,12,255},
   {8,9,14,255}, {8,14,13,255}, {9,5,10,255}, {9,10,14,255}, {10,11,16,255}, {10,16,15,255}, {11,12,17,255}, {11,17,16,255},
@@ -1380,11 +1380,11 @@ static const Tri jake_lo_t[624] = {
   {2,3,30,255}, {3,4,30,255}, {4,0,30,255}, {25,31,26,255}, {26,31,27,255}, {27,31,28,255}, {28,31,29,255}, {29,31,25,255},
 };
 static const MPart jake_lo_p[9] = {{0,83,0,162,1}, {83,21,162,14,-1}, {104,50,176,96,0}, {154,15,272,16,1}, {169,26,288,48,0}, {195,44,336,84,0}, {239,44,420,84,0}, {283,32,504,60,0}, {315,32,564,60,0},};
-static const uint16_t jake_lo_pal[44] = {
-  10240,57050,29944,8713,65238,63223,52594,61275,65206,47200,47200,40775,
-  30243,38630,40839,40743,40775,63291,61146,50644,63323,48498,48498,52725,
-  50676,65142,47200,65239,54609,49345,40839,40839,40742,34468,38630,40774,
-  61210,63291,48531,61210,50612,48498,52658,52659,
+static const uint16_t jake_lo_pal[45] = {
+  10240,61209,52757,29944,8713,65238,63223,52594,61275,65206,47200,47200,
+  40775,30243,38630,40839,40743,40775,63291,61146,50644,63323,48498,48498,
+  52725,50676,65142,47200,65239,54609,49345,40839,40839,40742,34468,38630,
+  40774,61210,63291,48531,61210,50612,48498,52658,52659,
 };
 static const int16_t jake_lo_j[11][3] = {{0,761,0}, {0,794,0}, {0,1188,0}, {-157,1132,0}, {-415,1132,0}, {157,1132,0}, {415,1132,0}, {-132,741,0}, {-132,450,0}, {125,741,0}, {125,450,0}};
 static const int8_t jake_lo_parent[11] = {-1,0,1,1,3,1,5,0,7,0,9};

diff --git a/games/subway/tools/models.py b/games/subway/tools/models.py
@@ -34,7 +34,8 @@ PEOPLE = {
                  arms=(186, 226), clip=56, elbow=118, wrist=166, depth=dict(head=0.98, chest=0.62, hips=0.72),
                  peak=dict(row=95, colour=(450, 106), size=(0.13, 0.11)),
                  shoe=(236, 232, 222), logo=dict(box=(455, 33, 550, 66), row=258, width=0.3, height=0.2),
-                 back=[("head", 0, 999, (222, 218, 208)), ("chest", 0, 999, (118, 158, 198)), ("hips", 0, 999, (480, 315))]),
+                 back=[("head", 0, 176, (236, 226, 204)), ("head", 176, 999, (206, 194, 172)), ("chest", 0, 999, (118, 158, 198)),
+                       ("hips", 0, 999, (480, 315))]),
     "tricky": dict(src="3D_Models_5_Trickys.jpg", x=(250, 760), cx=505, height=1.72,
                    head=(18, 200), neck=192, chest=(198, 290), waist=290, knee=420, ankle=468,
                    arms=(182, 210), clip=56, elbow=120, wrist=196, depth=dict(head=0.95, chest=0.7, hips=0.75),

diff --git a/games/subway/src/app.c b/games/subway/src/app.c
@@ -24,8 +24,8 @@ static char note[40];           /* the shop's word on the last try */
 static float note_t;
 static float cam_x, cam_y;      /* the run's camera, smoothed */
 static bool drawn;              /* a screen that does not move is drawn once, then again when something changes */
-#define CAM_Y 4.8f              /* above the ground */
-#define CAM_BACK 5.8f           /* behind the runner */
+#define CAM_Y 4.4f              /* above the ground */
+#define CAM_BACK 5.2f           /* behind the runner */
 
 /* colours of the game's screens */
 #define NAVY 0x0B2A55

diff --git a/games/subway/src/actors.c b/games/subway/src/actors.c
@@ -90,7 +90,7 @@ static void draw_model(const Model *m, const float (*a)[3], const M34 *root, flo
   /* (nothing to do far away or behind) */
   V3 c = ap(&cm[0], (V3){m->joints[0][0] * 0.001f, m->joints[0][1] * 0.001f, m->joints[0][2] * 0.001f});
   if (c.z < -2.5f || c.z > 140) return;
-  float amb = 0.6f * light * 255, dif = 0.45f * light * 255;
+  float amb = 0.55f * light * 255, dif = 0.5f * light * 255;
   RV rv[256];
   for (int pi = 0; pi < m->nparts; pi++) {
     const MPart *p = &m->parts[pi];
